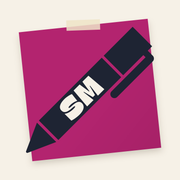
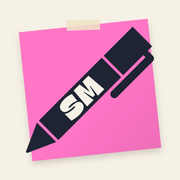
encore l icone mdrr

diff --git a/public/sw.js b/public/sw.js
@@ -5,7 +5,7 @@
  * - Never touches cross-origin requests (Supabase API/auth always go to the network).
  * Bump VERSION whenever you change this file's caching logic.
  */
-const VERSION = "v7";
+const VERSION = "v8";
 const STATIC_CACHE = `sn-static-${VERSION}`;
 const PAGE_CACHE = `sn-pages-${VERSION}`;
 const OFFLINE_URL = "/offline";

diff --git a/CLAUDE.md b/CLAUDE.md
@@ -76,7 +76,7 @@ NEXT_PUBLIC_SUPABASE_PUBLISHABLE_KEY=sb_publishable_...
   - Le script de thème est chargé via `next/script` (`strategy="beforeInteractive"`) : une balise `<script>` brute dans le layout déclenche une erreur React 19.
   - Logos sources dans `brand/games/{ultimate,melee,roa2}.png`, versions optimisées dans `public/games/*.webp` (générées par `scripts/make-icons.mjs`), dimensions dans `GAME_LOGOS` (`src/lib/game-data.ts`).
 - **Logos** (fournis par le propriétaire le 2026-10-02, Small remplacé par une version recentrée le même jour ; originaux dans `brand/`) :
-  - **Small** (`brand/logo-small-source.webp`, carré, dégradé `#a851fe` → `#ff67fe` + stylo « SM ») : icône d'onglet, icônes PWA et raccourci mobile. Depuis le 2026-10-04, `inkSmall()` (`scripts/make-icons.mjs`) n'en garde que la forme du stylo, redessinée à l'encre `#1e2433` avec les lettres « SM » en crème `#f6f1e7` (même blanc cassé que le fond), posée sur un post-it magenta `#b3246f`, la couleur des boutons (changé le 2026-10-04, d’abord rose pâle) (72 % de la taille, penché de -6°, ombre douce, scotch) sur fond crème. Coins arrondis pour `icon.png` et les icônes « any » ; carré plein pour `apple-icon.png` ; marge de sécurité de 80 % pour `maskable-512.png`.
+  - **Small** (`brand/logo-small-source.webp`, carré, dégradé `#a851fe` → `#ff67fe` + stylo « SM ») : icône d'onglet, icônes PWA et raccourci mobile. Depuis le 2026-10-04, `inkSmall()` (`scripts/make-icons.mjs`) n'en garde que la forme du stylo, redessinée à l'encre `#1e2433` avec les lettres « SM » en crème `#f6f1e7` (même blanc cassé que le fond), posée sur un post-it rose `#ff76c6` (choix du propriétaire le 2026-10-04, après rose pâle puis magenta) (72 % de la taille, penché de -6°, ombre douce, scotch) sur fond crème. Coins arrondis pour `icon.png` et les icônes « any » ; carré plein pour `apple-icon.png` ; marge de sécurité de 80 % pour `maskable-512.png`.
   - **Long** (`brand/logo-long-source.png`, « SMASH MEMO » + stylo sur fond noir) : rendu transparent dans `public/brand/logo-long.png`, affiché via le composant `BrandLogo` (headers, pages de connexion / mot de passe, Privacy) et dans l'image d'aperçu des liens `src/app/opengraph-image.png`.
   - Tout se régénère avec `node scripts/make-icons.mjs` (arrêter `npm run dev` avant, sinon Windows verrouille les fichiers). Après un changement d'icônes, incrémenter `VERSION` dans `public/sw.js`, qui garde `/icons/` en cache.
 
